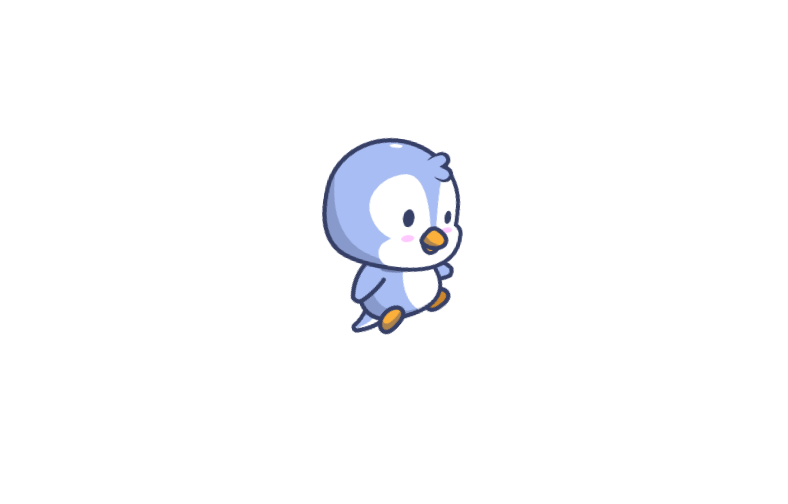
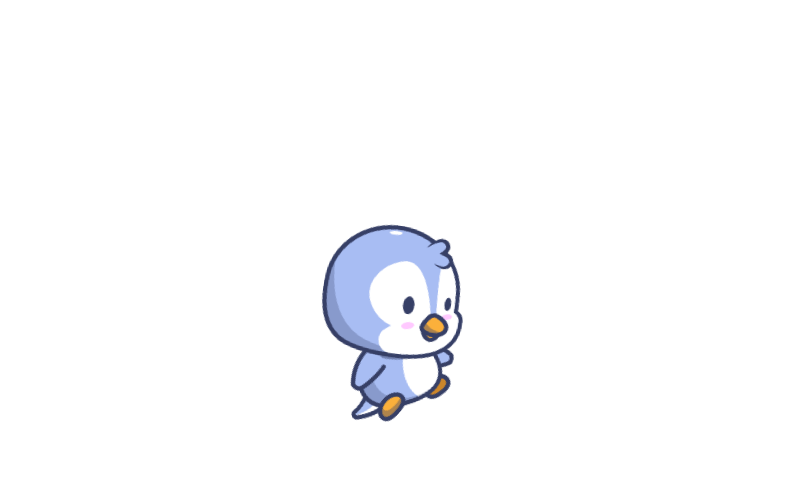
outsourced moving animations and fixed bug that allowed two animations to be played simultaniously

Changed region(s): [[0.3959, 0.2679, 0.6091, 0.8333]]

diff --git a/classes/character.class.js b/classes/character.class.js
@@ -1,7 +1,6 @@
 class Character extends MovableObject {
     x = 0;
-    // y = 280;
-    y = 200;
+    y = 280;
     width = 547;
     height = 350;
     speed = 25;
@@ -58,7 +57,7 @@ class Character extends MovableObject {
         'img/characters/Character02/Walk/All Characters-Character02-Walk_28.png',
         'img/characters/Character02/Walk/All Characters-Character02-Walk_29.png',
     ];
-    IMAGES_JUMP = [
+    IMAGES_JUMPING = [
         'img/characters/Character02/Jump/All Characters-Character02-Jump_00.png',
         'img/characters/Character02/Jump/All Characters-Character02-Jump_01.png',
         'img/characters/Character02/Jump/All Characters-Character02-Jump_02.png',
@@ -92,32 +91,42 @@ class Character extends MovableObject {
         super().loadImage('img/characters/Character02/Idle/All Characters-Character02-Idle_00.png');
         this.loadImages(this.IMAGES_IDLE);
         this.loadImages(this.IMAGES_WALKING);
-        this.loadImages(this.IMAGES_JUMP);
+        this.loadImages(this.IMAGES_JUMPING);
         this.animate();
         this.applyGravity();
     }
 
     animate() {
         setInterval(() => {
-            if (this.world.keyboard.NO_KEY_PRESSED) {
+            if (this.world.keyboard.NO_KEY_PRESSED && !this.isAboveGround()) {
                 this.playAnimation('idle', this.IMAGES_IDLE);
             }
         }, 1000 / 19);
 
-        setInterval(() => {
-            if (this.world.keyboard.RIGHT || this.world.keyboard.LEFT) {
+         setInterval(() => {
+            if ((this.world.keyboard.RIGHT || this.world.keyboard.LEFT) && !this.isAboveGround()) {
                 this.playAnimation('walking', this.IMAGES_WALKING);
             }
-        }, 1000 / 35);
+        }, 1000 / 30);
+
+        setInterval(() => {
+            if (this.isAboveGround()) {
+                this.playAnimation('jumping', this.IMAGES_JUMPING);
+            }
+        }, 1000 / 25);
 
         setInterval(() => {
             if (this.world.keyboard.RIGHT && this.x < this.world.level.level_end_x) {
-                this.x += this.speed;
+                this.moveRight();
                 this.otherDirection = false;
             }
             if (this.world.keyboard.LEFT && this.x > 0) {
-                this.x -= this.speed;
+                this.moveLeft();
                 this.otherDirection = true;
+            }
+            
+            if (this.world.keyboard.SPACE && !this.isAboveGround()) {
+                this.jump();
             }
             this.world.camera_x = -this.x;
         }, 1000 / 30);

diff --git a/classes/movable-object.class.js b/classes/movable-object.class.js
@@ -7,7 +7,7 @@ class MovableObject {
     speed;
     otherDirection = false;
     speedY = 0;
-    acceleration = 2.5;
+    acceleration = 3;
 
     constructor() {
         
@@ -40,14 +40,26 @@ class MovableObject {
 
     applyGravity() {
         setInterval(() => {
-            if (this.isAboveGround()) {
+            if (this.isAboveGround() || this.speedY > 0) {
                 this.y -= this.speedY;
                 this.speedY -= this.acceleration;
             }
-        }, 1000/ 25)
+        }, 1000 / 25)
     }
 
     isAboveGround() {
         return this.y < 280;
+    }
+
+    moveRight() {
+        this.x += this.speed;
+    }
+
+    moveLeft() {
+        this.x -= this.speed;
+    }
+
+    jump() {
+        this.speedY = 30;
     }
 }

diff --git a/classes/enemy.class.js b/classes/enemy.class.js
@@ -33,7 +33,10 @@ class Enemy extends MovableObject {
     }
 
     animate() {
-        // this.moveLeft();
+        setInterval(() => {
+            this.moveLeft();
+        }, 1000 / 30);
+
         setInterval(() => {
             this.playAnimation('walking', this.IMAGES_WALKING);
         }, 1000 / 18);
